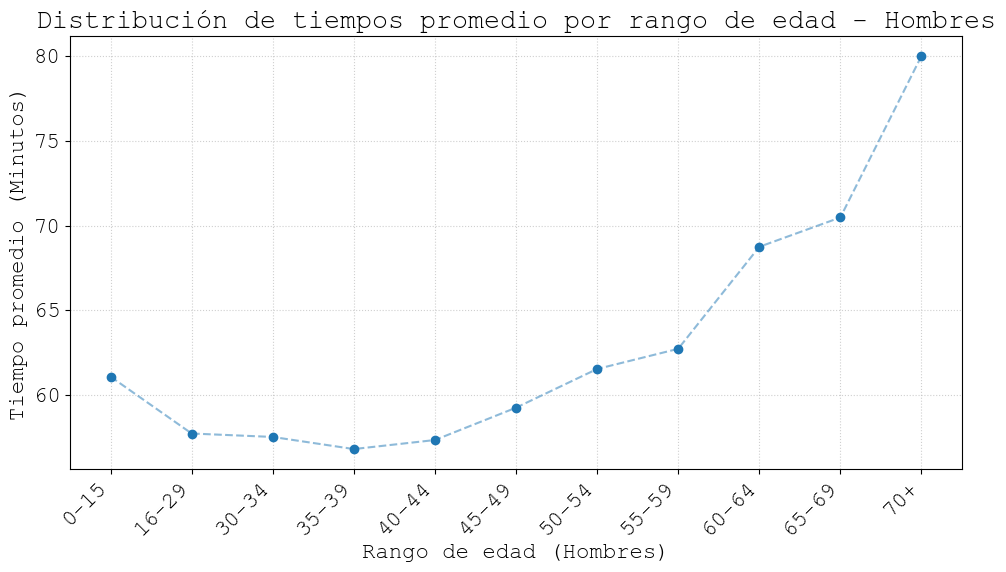
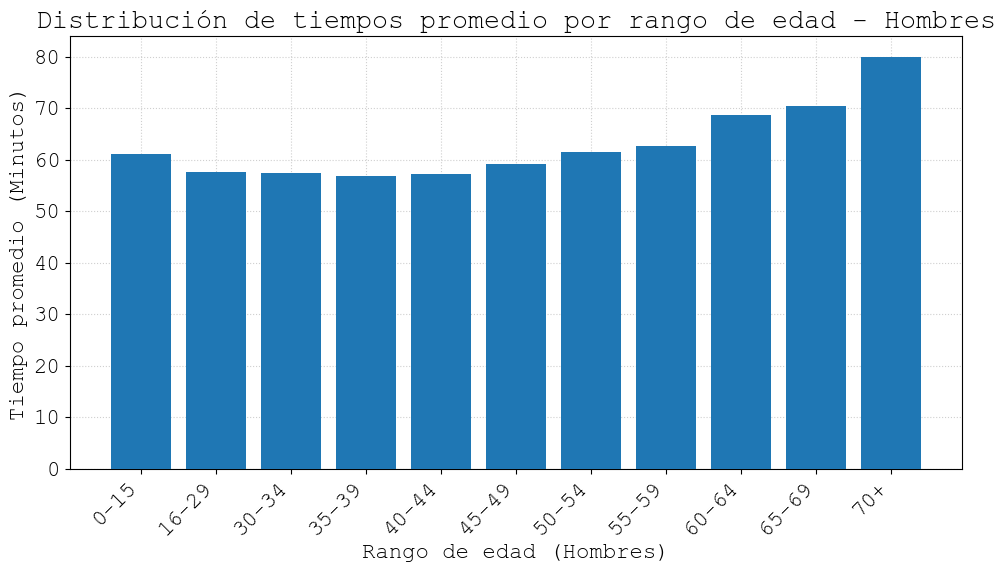
creé las imagenes

diff --git a/visualizaciones.py b/visualizaciones.py
@@ -14,8 +14,7 @@ os.makedirs('imagenes', exist_ok=True)
  
 # ── Tiempo promedio por rango de edad - Hombres ──────────────────────────────
 plt.figure(figsize=(10, 6))
-plt.scatter(resumen['rango_edad'], resumen['promedio'], color='tab:blue', zorder=3)
-plt.plot(resumen['rango_edad'], resumen['promedio'], color='tab:blue', alpha=0.5, linestyle='--')
+plt.bar(resumen['rango_edad'], resumen['promedio'], color='tab:blue', zorder=3)
 plt.xlabel('Rango de edad (Hombres)')
 plt.xticks(rotation=45, ha='right')
 plt.ylabel('Tiempo promedio (Minutos)')
@@ -28,8 +27,7 @@ plt.show()
 
 # ── Tiempo promedio por rango de edad - Mujeres ──────────────────────────────
 plt.figure(figsize=(10, 6))
-plt.scatter(resumen_mujeres['rango_edad'], resumen_mujeres['promedio'], color='tab:orange', zorder=3)
-plt.plot(resumen_mujeres['rango_edad'], resumen_mujeres['promedio'], color='tab:orange', alpha=0.5, linestyle='--')
+plt.bar(resumen_mujeres['rango_edad'], resumen_mujeres['promedio'], color='tab:orange', zorder=3)
 plt.xlabel('Rango de edad (Mujeres)')
 plt.xticks(rotation=45, ha='right')
 plt.ylabel('Tiempo promedio (Minutos)')
@@ -49,39 +47,31 @@ for c in ritmos_centros:
     segundos = int(round((c % 1) * 60))
     labels_centros.append(f"{minutos}:{segundos:02d}")
  
-# ── Histograma de ritmos - Hombres ───────────────────────────────────────────
-plt.figure(figsize=(11, 6))
-plt.hist(hombres['ritmos'], bins=ritmos_bordes, color='tab:blue', edgecolor='white', zorder=3)
-plt.title("Distribución de Ritmos en Hombres", fontsize=14, pad=15)
-plt.xlabel("Ritmo (minutos por kilómetro)", fontsize=12)
-plt.ylabel("Número de participantes", fontsize=12)
-plt.xticks(ticks=ritmos_centros, labels=labels_centros, rotation=45, ha='right')
-ax = plt.gca()
+# ── Histograma de ritmos - Hombres y Mujeres ───────────────────────────────────────────
+fig, ax = plt.subplots(figsize=(11, 6))
+
+ax.hist(hombres['ritmos'], bins=ritmos_bordes, color='tab:blue', edgecolor='white', zorder=3, alpha=0.7, label='Hombres')
+ax.hist(mujeres['ritmos'], bins=ritmos_bordes, color='tab:orange', edgecolor='white', zorder=3, alpha=0.7, label='Mujeres')
+
+ax.set_title("Distribución de Ritmos por Género", fontsize=14, pad=15)
+ax.set_xlabel("Ritmo (minutos por kilómetro)", fontsize=12)
+ax.set_ylabel("Número de participantes", fontsize=12)
+ax.set_xticks(ritmos_centros)
+ax.set_xticklabels(labels_centros, rotation=45, ha='right')
 ax.xaxis.set_minor_locator(ticker.FixedLocator(ritmos_bordes))
-plt.grid(axis='y', linestyle='--', alpha=0.7, zorder=0)
+ax.grid(axis='y', linestyle='--', alpha=0.7, zorder=0)
+ax.legend(fontsize=12)
+
 plt.tight_layout()
-plt.savefig('imagenes/ritmos_hombres.png', dpi=100, bbox_inches='tight')
+plt.savefig('imagenes/ritmos_ambos.png', dpi=100, bbox_inches='tight')
 plt.show()
- 
-# ── Histograma de ritmos - Mujeres ───────────────────────────────────────────
-plt.figure(figsize=(11, 6))
-plt.hist(mujeres['ritmos'], bins=ritmos_bordes, color='tab:orange', edgecolor='white', zorder=3)
-plt.title("Distribución de Ritmos en Mujeres", fontsize=14, pad=15)
-plt.xlabel("Ritmo (minutos por kilómetro)", fontsize=12)
-plt.ylabel("Número de participantes", fontsize=12)
-plt.xticks(ticks=ritmos_centros, labels=labels_centros, rotation=45, ha='right')
-ax = plt.gca()
-ax.xaxis.set_minor_locator(ticker.FixedLocator(ritmos_bordes))
-plt.grid(axis='y', linestyle='--', alpha=0.7, zorder=0)
-plt.tight_layout()
-plt.savefig('imagenes/ritmos_mujeres.png', dpi=100, bbox_inches='tight')
-plt.show()
- 
+
 # ── Comparación hombres vs mujeres ───────────────────────────────────────────
 plt.figure(figsize=(8, 6))
 sns.barplot(data=resumen_genero, x='genero', y='tiempo_promedio',
             palette=['tab:blue', 'tab:orange'])
 plt.ylabel('Tiempo promedio (minutos)')
+plt.xlabel('Género')
 plt.title('Tiempo promedio por género')
 plt.grid(axis='y', linestyle='--', alpha=0.7)
 plt.tight_layout()

diff --git a/README.MD b/README.MD
@@ -61,8 +61,7 @@ pip install pandas duckdb matplotlib seaborn numpy
 
 ### Distribución de ritmos (min/km)
 
-<img src="imagenes/ritmos_hombres.png" width="60%">
-<img src="imagenes/ritmos_mujeres.png" width="60%">
+<img src="imagenes/ritmos_ambos.png" width="60%">
 
 ### Comparación por género
 